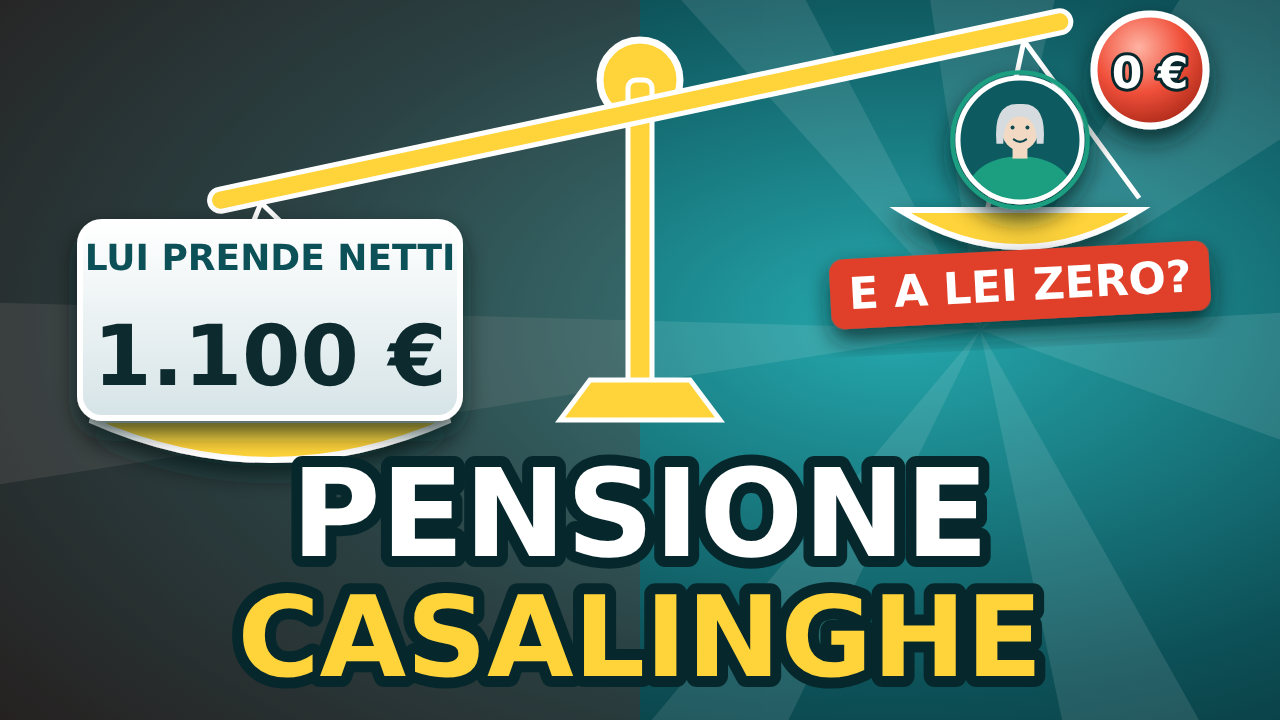
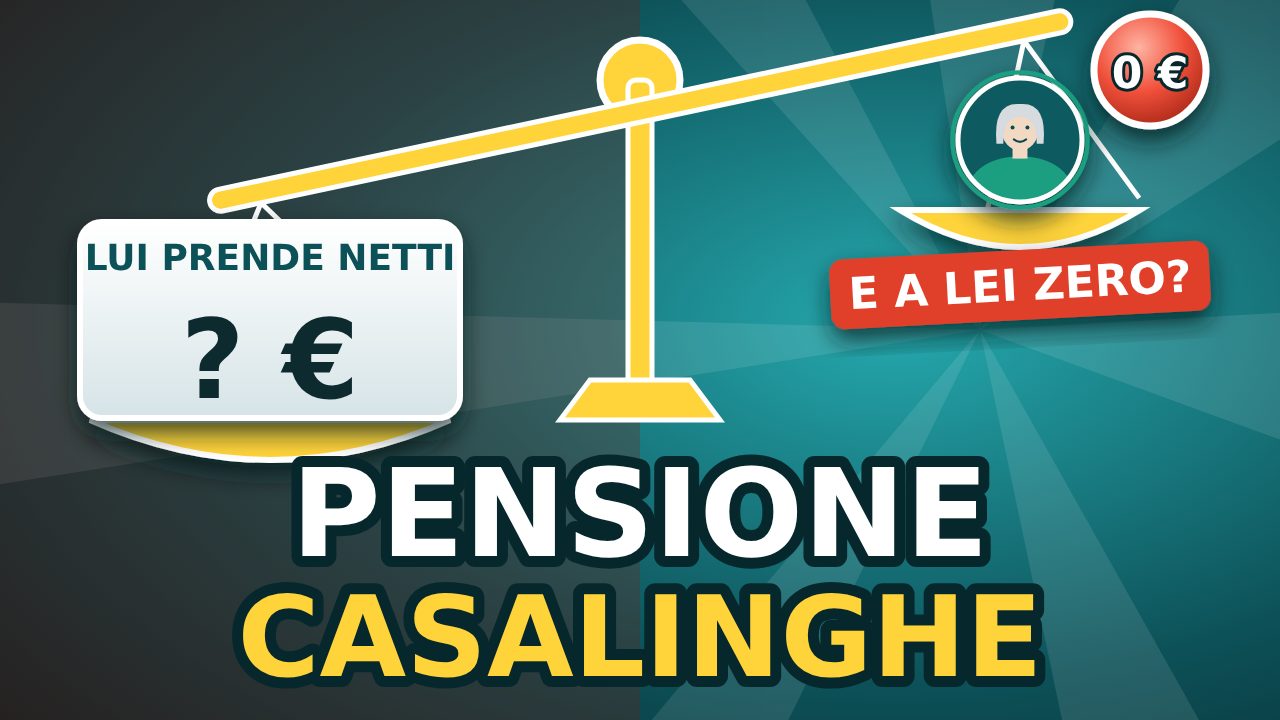
Video 10: miniatura C con cifra nascosta
Claude-Session: https://claude.ai/code/session_01XxBn8uTp7GtbuFowm6SB8k

Changed region(s): [[0.0625, 0.4278, 0.3438, 0.55]]

diff --git a/conti_in_pensione/27-video-lungo-10/miniatura/miniatura-C.html b/conti_in_pensione/27-video-lungo-10/miniatura/miniatura-C.html
@@ -20,7 +20,7 @@
 <g filter="url(#sh)"><path d="M90 420 Q270 500 450 420 Z" fill="#FFD43B" stroke="#fff" stroke-width="6"/><path d="M900 210 Q1020 284 1140 210 Z" fill="#FFD43B" stroke="#fff" stroke-width="6"/></g>
 <g filter="url(#sh)"><rect x="80" y="222" width="380" height="196" rx="22" fill="url(#pp)" stroke="#fff" stroke-width="6"/></g>
 <text x="270" y="270" class="t" font-size="36" fill="#0D5158" text-anchor="middle">LUI PRENDE NETTI</text>
-<text id="c3" x="270" y="385" class="t" font-size="84" fill="#0D2A2F" text-anchor="middle">1.100 €</text>
+<text id="c3" x="270" y="398" class="t" font-size="110" fill="#0D2A2F" text-anchor="middle">? €</text>
 <g filter="url(#sh)"><clipPath id="pL1020"><circle cx="0" cy="0" r="62"/></clipPath><circle cx="1020" cy="140" r="62" fill="#0E5A60"/><g transform="translate(1020 140)"><g clip-path="url(#pL1020)"><path d="M-55.800000000000004 62 Q-52.699999999999996 18.599999999999998 0 16.12 Q52.699999999999996 18.599999999999998 55.800000000000004 62 Z" fill="#1B9F81"/><rect x="-7.4399999999999995" y="1.24" width="14.879999999999999" height="17.360000000000003" fill="#F1D9C4"/><ellipse cx="0" cy="-11.16" rx="18.599999999999998" ry="21.7" fill="#F1D9C4"/><path d="M-23.56 3.7199999999999998 Q-27.28 -38.44 0 -35.96 Q27.28 -38.44 23.56 3.7199999999999998 L16.740000000000002 3.7199999999999998 Q16.740000000000002 -23.56 0 -23.56 Q-16.740000000000002 -23.56 -16.740000000000002 3.7199999999999998 Z" fill="#D5DBDE"/><circle cx="-7.4399999999999995" cy="-12.4" r="1.984" fill="#0B4A50"/><circle cx="7.4399999999999995" cy="-12.4" r="1.984" fill="#0B4A50"/><path d="M-6.2 -0.62 Q0 4.340000000000001 6.2 -0.62" fill="none" stroke="#0B4A50" stroke-width="1.984" stroke-linecap="round"/></g></g><circle cx="1020" cy="140" r="62" fill="none" stroke="#fff" stroke-width="4.96"/><circle cx="1020" cy="140" r="67.58" fill="none" stroke="#1B9F81" stroke-width="4.340000000000001"/></g>
 <g filter="url(#sh)"><circle cx="1150" cy="70" r="56" fill="url(#re)" stroke="#fff" stroke-width="7"/></g><text x="1150" y="88" class="t" font-size="44" fill="#fff" text-anchor="middle" stroke="#06282C" stroke-linejoin="round" paint-order="stroke" stroke-width="6">0 €</text>
 <g transform="rotate(-3 1020.0 285.0)"><g filter="url(#sh)"><rect x="830" y="250" width="380" height="70" rx="14" fill="#E0402A"/></g><text id="c4" x="1020.0" y="300.4" class="t" font-size="44" fill="#fff" text-anchor="middle">E A LEI ZERO?</text></g>

diff --git a/conti_in_pensione/27-video-lungo-10/miniatura/gen10.py b/conti_in_pensione/27-video-lungo-10/miniatura/gen10.py
@@ -56,7 +56,7 @@ C=HEAD+f"""<rect x="0" y="0" width="640" height="720" fill="#7A1A10" opacity="0.
 <g filter="url(#sh)"><path d="M90 420 Q270 500 450 420 Z" fill="#FFD43B" stroke="#fff" stroke-width="6"/><path d="M900 210 Q1020 284 1140 210 Z" fill="#FFD43B" stroke="#fff" stroke-width="6"/></g>
 <g filter="url(#sh)"><rect x="80" y="222" width="380" height="196" rx="22" fill="url(#pp)" stroke="#fff" stroke-width="6"/></g>
 <text x="270" y="270" class="t" font-size="36" fill="#0D5158" text-anchor="middle">LUI PRENDE NETTI</text>
-<text id="c3" x="270" y="385" class="t" font-size="84" fill="#0D2A2F" text-anchor="middle">1.100 €</text>
+<text id="c3" x="270" y="398" class="t" font-size="110" fill="#0D2A2F" text-anchor="middle">? €</text>
 {person(1020,140,62,'L','#1B9F81')}
 <g filter="url(#sh)"><circle cx="1150" cy="70" r="56" fill="url(#re)" stroke="#fff" stroke-width="7"/></g><text x="1150" y="88" class="t" font-size="44" fill="#fff" text-anchor="middle" {S} stroke-width="6">0 €</text>
 {blocco(830,250,380,70,"E A LEI ZERO?",44,"#E0402A","#fff",-3,'c4')}

diff --git a/conti_in_pensione/REGOLE-FISSE.md b/conti_in_pensione/REGOLE-FISSE.md
@@ -571,3 +571,4 @@
 - (23/10, ERRORE miniatura C video 10, utente: "non si capisce che e' 1000 euro" e "e' uguale alle altre, ti ho detto di farla diversa") (1) un numero coperto deve restare LEGGIBILE: si coprono solo cifre singole con caselle a forma di cifra e si scrive la grandezza a parole ("MILLE E..."), mai "1.0??" in una riga che sembra un codice; (2) "piu' diversa" = cambiare l'IMPAGINAZIONE intera (posizione della scritta PENSIONE, niente striscia bianca in basso se le altre ce l'hanno, oggetto principale diverso), non solo l'oggetto al centro. Prima di mandare: mettere la nuova accanto alle altre e verificare che a colpo d'occhio non sia lo stesso schema.
 - (23/10) Video 10: miniatura-C.png RIFATTA con impaginazione diversa: bilancia gigante (LUI: MILLE E... 1.0 + 2 caselle ? €, pesa giu') contro LEI 0 € (sale), etichetta E A LEI ZERO?, scritta PENSIONE CASALINGHE grande in BASSO, nessuna striscia bianca.
 - (23/10, utente infuriato: 'ancora con quel 1000 coperto') MAI numeri coperti a meta' (1.0??) in miniatura: o il numero si scrive intero e chiaro (es. LUI 1.100 € -> LEI 0 €, vero perche' sopra 1.092,48 netti l'assegno e' zero) o si copre tutto con '? €'. Corretta la miniatura C.
+- (23/10, CORREZIONE della regola sopra, utente: 'si capiva il 1000 gia prima e adesso lo fai capire totalmente') Avevo capito al contrario: il problema era che '1.0??' faceva GIA indovinare la cifra (niente curiosita), e scriverla intera e' peggio. Regola giusta: in miniatura la cifra che il video svela si NASCONDE TUTTA ('? €'), nessuna cifra visibile che la faccia indovinare. Se una frase dell'utente si puo' leggere in due modi: UNA domanda prima di rifare.
